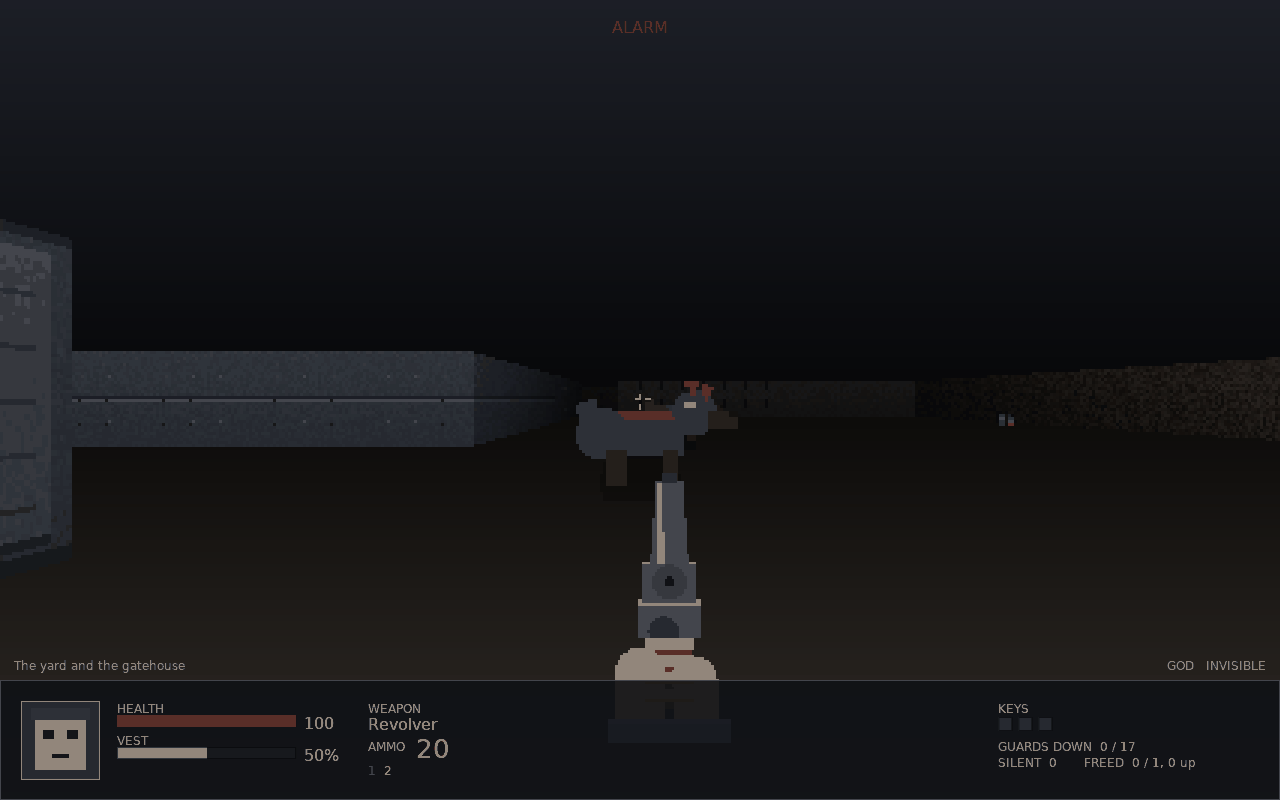
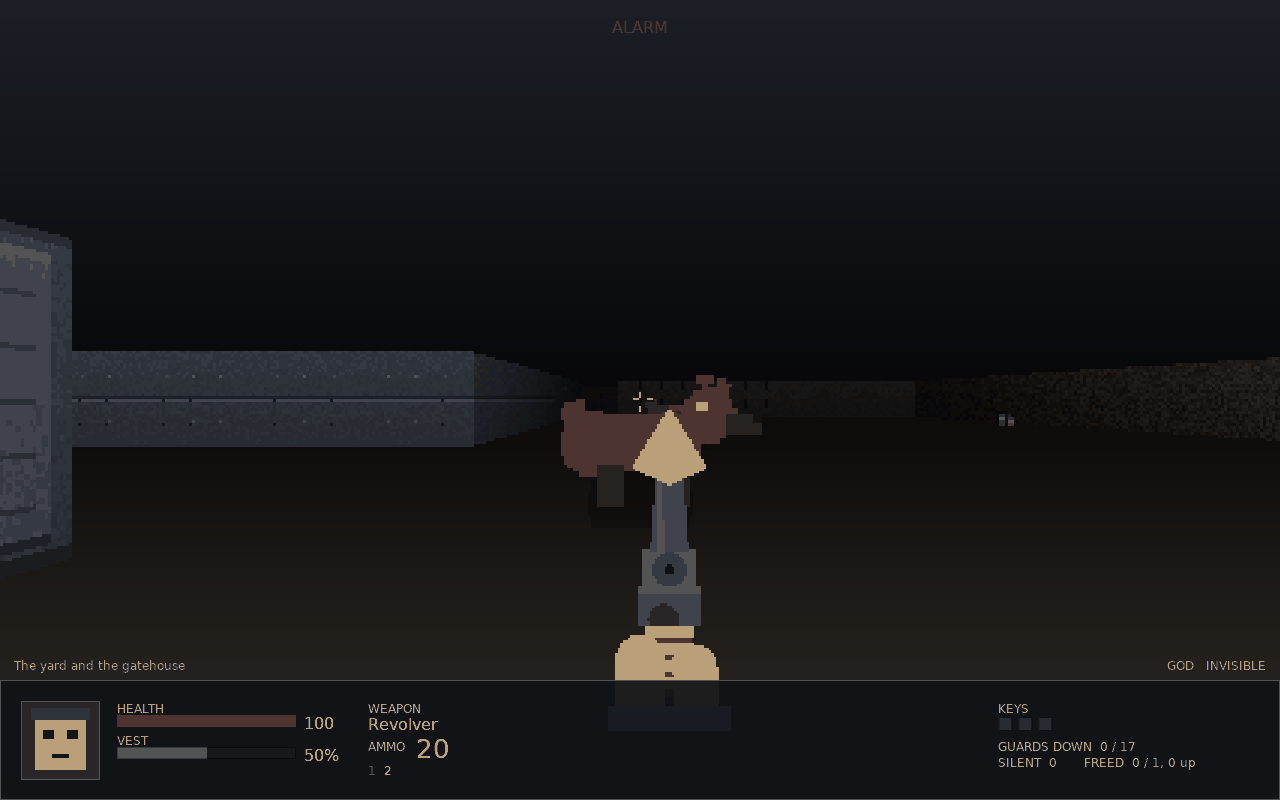
Light the dog in the gallery with a muzzle flash, and fix two captions

diff --git a/docs/index.html b/docs/index.html
@@ -245,14 +245,15 @@ hears those.</p>
 <div class="pair">
     <figure>
         <img src="shots/dogs.png" alt="A dog charging down a dark lane with the alarm on">
-        <figcaption><b>The dogs.</b> Three and a half tiles a second, no
-        radio and no round to keep. They go for whoever is nearest, which is
-        you or any prisoner you have let out.</figcaption>
+        <figcaption><b>The dogs.</b> Three and a half tiles a second, no radio
+        and no round to keep. They go for whoever is nearest, which is you or
+        any prisoner you have let out. A leg trap in the doorway settles
+        one.</figcaption>
     </figure>
     <figure>
         <img src="shots/yard.png" alt="The yard at night between metal sheds">
-        <figcaption><b>The yard.</b> Open ground, floodlights and the men who
-        are good at this. The last block is where the hatchet stops being
+        <figcaption><b>Between the sheds.</b> The last block is open ground,
+        floodlights and the riot squad. It is where the hatchet stops being
         enough.</figcaption>
     </figure>
 </div>
